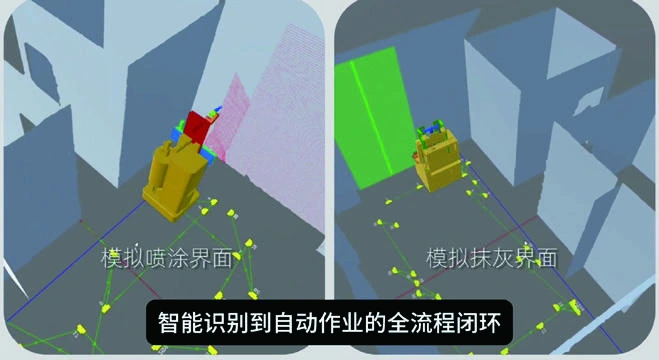
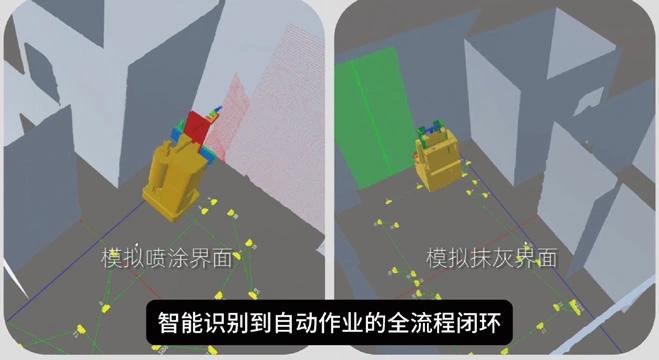
Improve case actions and correct brochure image colors

diff --git a/styles.css b/styles.css
@@ -80,17 +80,18 @@ h1 em { color: #a8b0ff; font-style: normal; }
 .image-view { width: 100%; display: block; border: 0; padding: 0; position: relative; background: transparent; text-align: left; }
 .image-view img { width: 100%; height: auto; transition: transform .5s ease; }
 .image-view:hover img, .image-view:focus-visible img { transform: scale(1.025); }
-.image-zoom { position: absolute; bottom: 12px; right: 12px; padding: 8px 11px; border-radius: 999px; color: white; background: rgba(12,22,46,.82); backdrop-filter: blur(8px); font-size: 11px; font-weight: 700; opacity: 0; transform: translateY(5px); transition: .2s; }
-.image-view:hover .image-zoom, .image-view:focus-visible .image-zoom { opacity: 1; transform: none; }
+.image-zoom { position: absolute; bottom: 12px; right: 12px; display: inline-flex; align-items: center; gap: 9px; padding: 10px 13px; border: 1px solid rgba(255,255,255,.3); border-radius: 999px; color: white; background: rgba(12,22,46,.86); backdrop-filter: blur(8px); box-shadow: 0 5px 15px rgba(0,0,0,.2); font-size: 12px; font-weight: 740; transition: background .2s, transform .2s; }
+.image-view:hover .image-zoom, .image-view:focus-visible .image-zoom { background: rgba(54,67,177,.96); transform: translateY(-2px); }
 .case-body { padding: 18px 2px 0; }
 .case-kind { color: var(--blue); font-size: 11px; font-weight: 770; letter-spacing: .1em; margin-bottom: 9px; }
 .case-title { margin: 0; font-size: 20px; font-weight: 750; letter-spacing: -.035em; line-height: 1.4; min-height: 56px; }
-.case-actions { display: flex; justify-content: space-between; align-items: center; flex-wrap: wrap; gap: 10px; padding-top: 15px; border-top: 1px solid var(--line); margin-top: 14px; }
-.case-open, .case-unlinked { font-size: 12px; font-weight: 730; }
-.case-open { color: #3e4bc1; }
-.case-open:hover, .case-open:focus-visible { text-decoration: underline; }
-.case-unlinked { color: #89919e; }
-.case-share { border: 0; padding: 3px 0; color: #687389; background: transparent; font-size: 12px; font-weight: 650; }
+.case-actions { display: flex; justify-content: space-between; align-items: center; gap: 10px; padding-top: 15px; border-top: 1px solid var(--line); margin-top: 14px; }
+.case-open { display: inline-flex; flex: 1; align-items: center; justify-content: space-between; gap: 9px; min-height: 46px; padding: 10px 14px; border: 0; border-radius: 10px; background: #3948bf; color: white; box-shadow: 0 6px 14px rgba(57,72,191,.17); font-size: 13px; font-weight: 760; text-align: left; transition: background .2s, transform .2s, box-shadow .2s; }
+.case-open:hover, .case-open:focus-visible { background: #27379f; transform: translateY(-2px); box-shadow: 0 9px 18px rgba(57,72,191,.23); }
+.case-open-image { background: #e6e9f6; color: var(--ink); box-shadow: none; }
+.case-open-image:hover, .case-open-image:focus-visible { background: #dce1f5; box-shadow: none; }
+.action-arrow { font-size: 17px; line-height: 1; }
+.case-share { flex: none; min-height: 44px; border: 0; padding: 8px 2px; color: #687389; background: transparent; font-size: 12px; font-weight: 650; white-space: nowrap; }
 .case-share:hover, .case-share:focus-visible { color: #3e4bc1; text-decoration: underline; }
 
 .closing { padding: 94px max(32px, calc((100vw - var(--max)) / 2 + 32px)) 100px; color: white; background: radial-gradient(circle at 84% 35%, rgba(111,124,251,.35), transparent 27%), linear-gradient(120deg, #151d40, #10172e); position: relative; }
@@ -118,7 +119,7 @@ h1 em { color: #a8b0ff; font-style: normal; }
   .hero-art { height: 350px; }
   .cards { gap: 20px; }
   .case-title { font-size: 17px; }
-  .case-actions { align-items: start; flex-direction: column; gap: 5px; }
+  .case-actions { align-items: stretch; gap: 7px; }
 }
 
 @media (max-width: 700px) {
@@ -155,12 +156,13 @@ h1 em { color: #a8b0ff; font-style: normal; }
   .group-index { font-size: 24px; }
   .cards { grid-template-columns: 1fr; gap: 34px; }
   .case-image { border-radius: 11px; }
-  .image-zoom { opacity: 1; transform: none; font-size: 10px; bottom: 10px; right: 10px; }
+  .image-zoom { font-size: 11px; bottom: 10px; right: 10px; }
   .case-body { padding: 14px 2px 0; }
   .case-kind { font-size: 10px; margin-bottom: 6px; }
   .case-title { font-size: 21px; min-height: 0; }
-  .case-actions { flex-direction: row; align-items: center; margin-top: 12px; padding-top: 12px; }
-  .case-open, .case-unlinked, .case-share { font-size: 12px; }
+  .case-actions { align-items: center; margin-top: 12px; padding-top: 12px; }
+  .case-open { min-height: 48px; font-size: 13px; }
+  .case-share { font-size: 12px; }
   .closing { padding: 69px 21px 78px; }
   .closing::before { right: -100px; top: 25%; }
   .closing h2 { font-size: 44px; }

diff --git a/app.js b/app.js
@@ -85,23 +85,26 @@ let highlightedCase = null;
 let toastTimer;
 
 function imagePath(id) {
-  return `assets/case-${String(id).padStart(2, "0")}.webp`;
+  return `assets/case-${String(id).padStart(2, "0")}.webp?v=20261021`;
 }
 
 function actionLabel(url) {
-  if (!url) return "折页图片展示";
-  if (url.includes("drive.weixin.qq.com")) return "打开案例资料 ↗";
-  if (url.includes("bilibili.com")) return "观看视频 ↗";
-  return "查看演示 ↗";
+  if (url.includes("drive.weixin.qq.com")) return "查看案例内容";
+  if (url.includes("bilibili.com")) return "观看视频";
+  return "查看 3D 演示";
 }
 
 function cardMarkup(category, item) {
   const [id, title, url] = item;
+  const image = `<img src="${imagePath(id)}" alt="${title}的折页配图" loading="lazy" decoding="async">`;
+  const imageAction = url
+    ? `<a class="image-view" href="${url}" target="_blank" rel="noopener noreferrer" aria-label="${actionLabel(url)}：${title}">${image}<span class="image-zoom">${actionLabel(url)} <span aria-hidden="true">↗</span></span></a>`
+    : `<button class="image-view" type="button" data-view-case="${id}" aria-label="放大查看${title}图片">${image}<span class="image-zoom">放大查看图片 <span aria-hidden="true">↗</span></span></button>`;
   const open = url
-    ? `<a class="case-open" href="${url}" target="_blank" rel="noopener noreferrer" aria-label="打开${title}的原始演示">${actionLabel(url)}</a>`
-    : `<span class="case-unlinked">${actionLabel(url)}</span>`;
+    ? `<a class="case-open" href="${url}" target="_blank" rel="noopener noreferrer" aria-label="${actionLabel(url)}：${title}"><span>${actionLabel(url)}</span><span class="action-arrow" aria-hidden="true">↗</span></a>`
+    : `<button class="case-open case-open-image" type="button" data-view-case="${id}" aria-label="放大查看${title}图片"><span>查看高清图片</span><span class="action-arrow" aria-hidden="true">↗</span></button>`;
   return `<article class="case-card${id === highlightedCase ? " is-target" : ""}" id="case-${id}">
-    <div class="case-image"><button class="image-view" type="button" data-view-case="${id}" aria-label="放大查看${title}图片"><img src="${imagePath(id)}" alt="${title}的折页配图" loading="lazy" decoding="async"><span class="image-zoom" aria-hidden="true">放大查看 ↗</span></button></div>
+    <div class="case-image">${imageAction}</div>
     <div class="case-body">
       <div class="case-kind">${category.name} · ${String(id).padStart(2, "0")}</div>
       <h4 class="case-title">${title}</h4>

diff --git a/index.html b/index.html
@@ -8,11 +8,11 @@
   <meta property="og:type" content="website">
   <meta property="og:title" content="Aholo 行业案例精选">
   <meta property="og:description" content="10 个行业方向，30 个案例与场景展示。按分类浏览，打开原始演示，方便转发。">
-  <meta property="og:image" content="https://zihaoxia931-ui.github.io/aholo-case-library/assets/case-01.webp">
+  <meta property="og:image" content="https://zihaoxia931-ui.github.io/aholo-case-library/assets/case-01.webp?v=20261021">
   <link rel="icon" type="image/png" href="assets/aholo-icon.png">
   <title>Aholo 行业案例精选</title>
-  <link rel="stylesheet" href="styles.css">
-  <script src="app.js" defer></script>
+  <link rel="stylesheet" href="styles.css?v=20261021">
+  <script src="app.js?v=20261021" defer></script>
 </head>
 <body>
   <div class="page-shell">
@@ -34,8 +34,8 @@
           </div>
         </div>
         <div class="hero-art" aria-hidden="true">
-          <div class="hero-image hero-image-back"><img src="assets/case-10.webp" alt=""></div>
-          <div class="hero-image hero-image-front"><img src="assets/case-01.webp" alt=""></div>
+          <div class="hero-image hero-image-back"><img src="assets/case-10.webp?v=20261021" alt=""></div>
+          <div class="hero-image hero-image-front"><img src="assets/case-01.webp?v=20261021" alt=""></div>
           <div class="hero-art-caption"><span class="live-indicator"></span> 30 个案例 / 10 个方向</div>
         </div>
       </section>
@@ -45,7 +45,7 @@
           <div>
             <span class="section-kicker">THE COLLECTION / 2026</span>
             <h2 id="explore-title">探索空间的更多可能</h2>
-            <p>选择与你关注的业务最相关的方向，点击图片可放大查看。</p>
+            <p>选择与你业务相关的方向。点击案例图片，可直接观看视频或查看内容；无外部链接的图片可放大查看。</p>
           </div>
           <button class="share-category" id="share-category" type="button" aria-label="分享当前分类">分享当前页面 <span aria-hidden="true">↗</span></button>
         </div>
